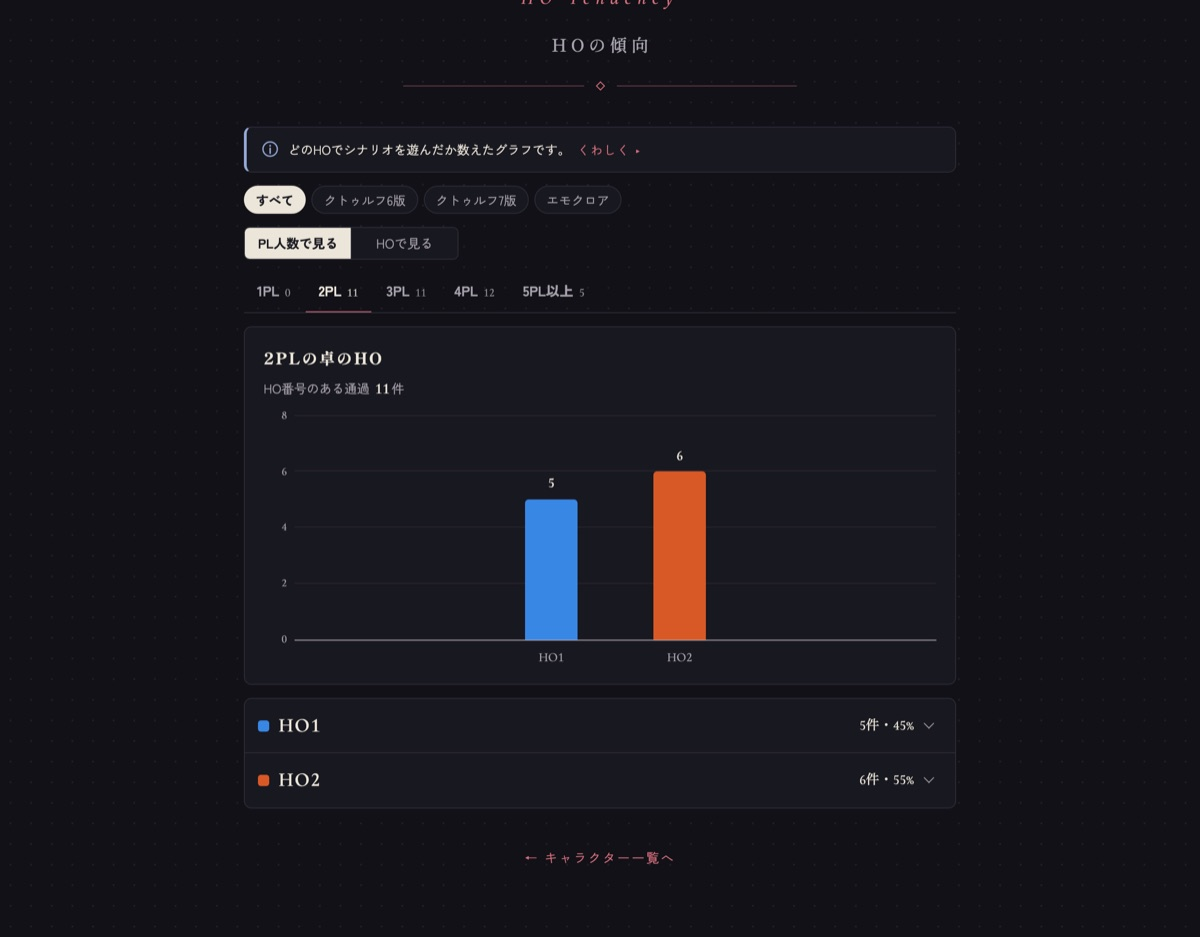
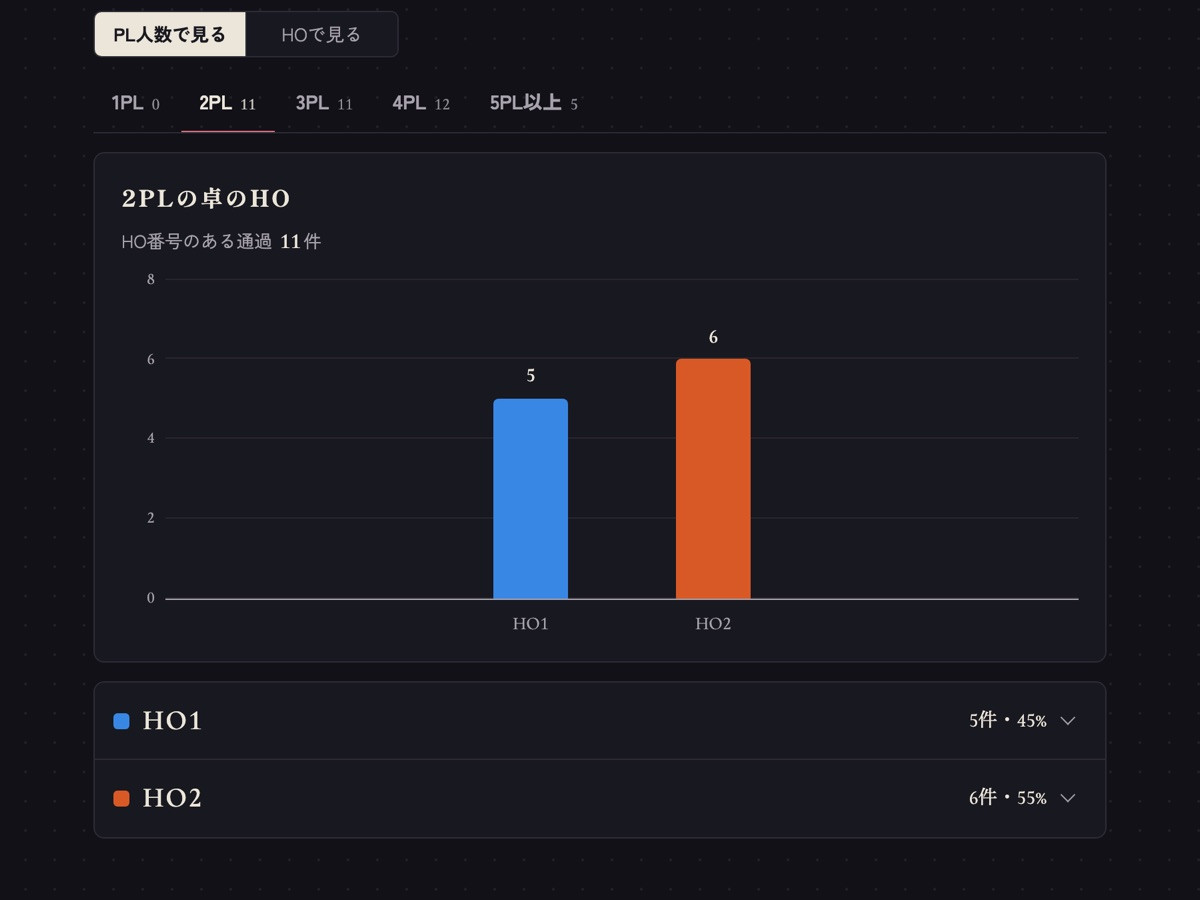
キャラクターシート帳の紹介ページ：ギャラリーの画面を同じ大きさにそろえ、「キャラ」を「キャラクター」に、サンプルに検索よけを付ける

diff --git a/works/trpg_charsheet_book/index.html b/works/trpg_charsheet_book/index.html
@@ -225,11 +225,11 @@
         <ol class="flow">
           <li>
             <h3>拡張機能で送る</h3>
-            <p>シートのサイトで「シート帳へ送る」を押すと、能力値・技能・チャットパレットなどを読み取って Notion に追加します。マイページから新しいキャラだけをまとめて送ることもできます。</p>
+            <p>シートのサイトで「シート帳へ送る」を押すと、能力値・技能・チャットパレットなどを読み取って Notion に追加します。マイページから新しいキャラクターだけをまとめて送ることもできます。</p>
           </li>
           <li>
             <h3>Notion で管理する</h3>
-            <p>シートは Notion のデータベースに1キャラ1ページで入ります。HP やメモ、通過したシナリオは Notion で書き足します。</p>
+            <p>シートは Notion のデータベースに1キャラクター1ページで入ります。HP やメモ、通過したシナリオは Notion で書き足します。</p>
           </li>
           <li>
             <h3>一覧ページで探す</h3>
@@ -248,18 +248,18 @@
         </figure>
 
         <h3 class="sub">ギャラリー</h3>
-        <p>Notion に集めたキャラを、立ち絵つきで並べるページです。下の画面とサンプルページは、架空のキャラクターで作っています。</p>
+        <p>Notion に集めたキャラクターを、立ち絵つきで並べるページです。下の画面とサンプルページは、架空のキャラクターで作っています。</p>
         <figure class="shot wide">
-          <img src="gallery-list.jpg" alt="ギャラリーの一覧。立ち絵つきのタイルが5列に並び、それぞれにふりがな・名前・最初に通過したシナリオ・システムが出ている。ロストしたキャラはグレーの立ち絵に LOST の印がついている" width="1600" height="1312" loading="lazy">
-          <figcaption>一覧。システムごとに切り替えられ、通過したシナリオの多い順に並びます。ロストしたキャラには LOST の印がつきます。</figcaption>
+          <img src="gallery-list.jpg" alt="ギャラリーの一覧。立ち絵つきのタイルが5列に並び、それぞれにふりがな・名前・最初に通過したシナリオ・システムが出ている。ロストしたキャラクターはグレーの立ち絵に LOST の印がついている" width="1600" height="1312" loading="lazy">
+          <figcaption>一覧。システムごとに切り替えられ、通過したシナリオの多い順に並びます。ロストしたキャラクターには LOST の印がつきます。</figcaption>
         </figure>
         <div class="grid two shots">
           <figure class="shot wide">
-            <img src="gallery-profile.jpg" alt="キャラクターのページ。立ち絵の横にプロフィール、人物紹介、能力値、技能、通過シナリオが並び、シリーズものは各話がシリーズ名の下にまとまっている" width="1200" height="1068" loading="lazy">
-            <figcaption>キャラのページ。能力値・技能と、通過したシナリオを HO つきで出します。</figcaption>
+            <img src="gallery-profile.jpg" alt="キャラクターのページ。立ち絵の横にプロフィール、人物紹介、能力値、技能、通過シナリオが並び、シリーズものは各話がシリーズ名の下にまとまっている" width="1200" height="900" loading="lazy">
+            <figcaption>キャラクターのページ。能力値・技能と、通過したシナリオを HO つきで出します。</figcaption>
           </figure>
           <figure class="shot wide">
-            <img src="gallery-ho.jpg" alt="HOの傾向のページ。PL人数ごとに、どのHO番号で遊んだかを棒グラフで数えている" width="1200" height="937" loading="lazy">
+            <img src="gallery-ho.jpg" alt="HOの傾向のページ。PL人数ごとに、どのHO番号で遊んだかを棒グラフで数えている" width="1200" height="900" loading="lazy">
             <figcaption>HO の傾向。PL 人数ごとに、どの HO で遊ぶことが多いかを数えます。</figcaption>
           </figure>
         </div>
@@ -275,7 +275,7 @@
         <div class="grid two">
           <div class="card">
             <h3>技能値で探す</h3>
-            <p>「目星70以上」「図書館>=60 6版」のように、技能の値でキャラを絞り込めます。</p>
+            <p>「目星70以上」「図書館>=60 6版」のように、技能の値でキャラクターを絞り込めます。</p>
           </div>
           <div class="card">
             <h3>システムとタグで分ける</h3>
@@ -287,7 +287,7 @@
           </div>
           <div class="card">
             <h3>生存とロストを分ける</h3>
-            <p>ロストしたキャラは分けて表示します。同じ名前のキャラを1人にまとめることもできます。</p>
+            <p>ロストしたキャラクターは分けて表示します。同じ名前のキャラクターを1人にまとめることもできます。</p>
           </div>
         </div>
       </div>

diff --git a/works/trpg_charsheet_book/sample/index.html b/works/trpg_charsheet_book/sample/index.html
@@ -3,6 +3,7 @@
 <head>
 <meta charset="utf-8">
 <meta name="viewport" content="width=device-width,initial-scale=1,viewport-fit=cover">
+<meta name="robots" content="noindex,nofollow,noarchive,noimageindex">
 <title>PL名のTRPGキャラクター一覧</title>
 <meta name="description" content="キャラクターシート帳のギャラリーを、架空のキャラクターで作ったサンプルです。">
 <meta property="og:type" content="website">
